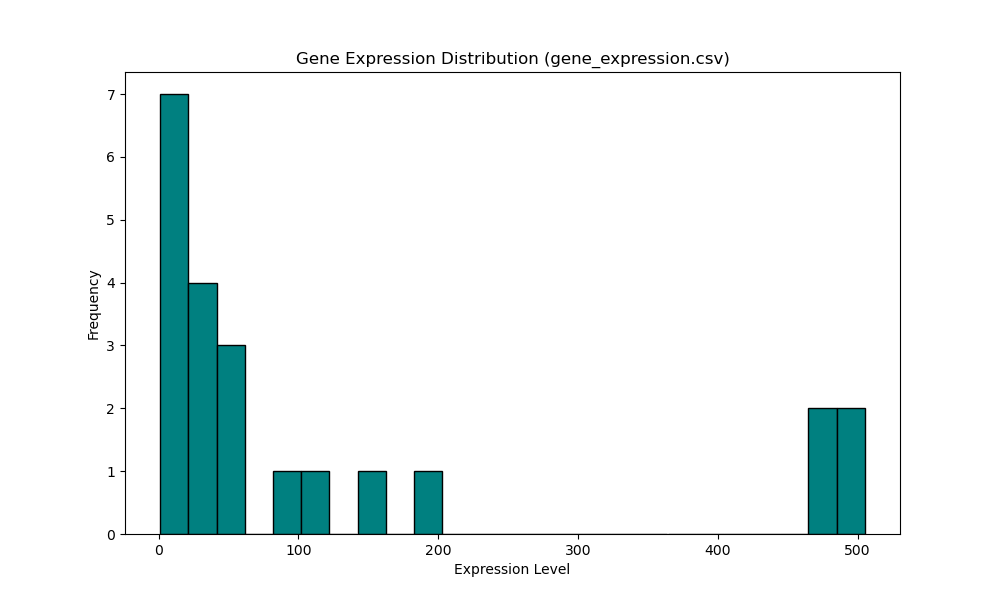
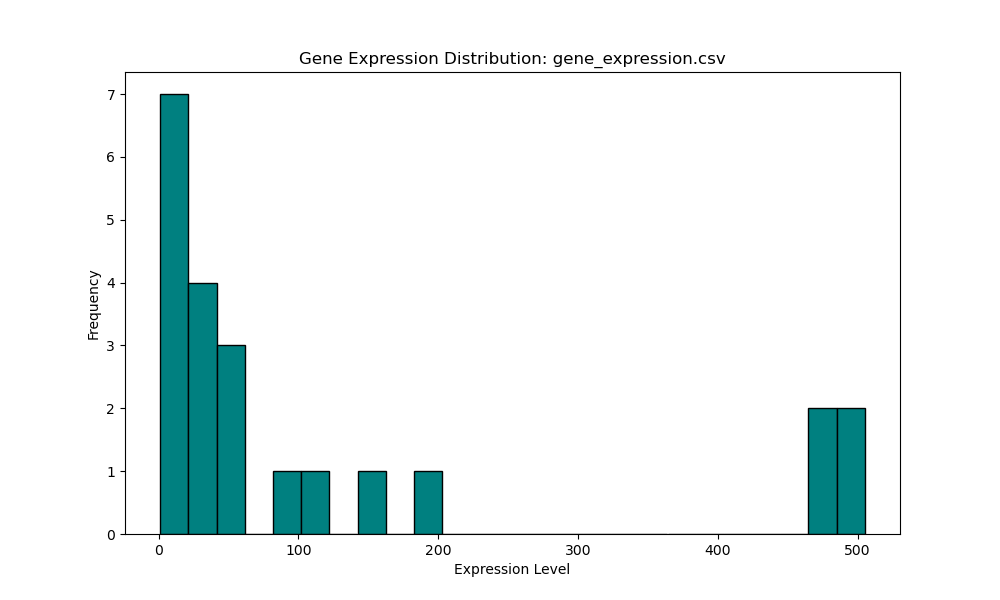
lab 4 extra task

Changed region(s): [[0.279, 0.09, 0.744, 0.12]]

diff --git a/Maja/software/lab4/lab4_1.py b/Maja/software/lab4/lab4_1.py
@@ -4,47 +4,45 @@ import argparse
 import os
 
 def main():
-    # 1. Hantera argument från kommandoraden
-    parser = argparse.ArgumentParser(description="Skapar ett histogram från genuttrycksdata.")
-    parser.add_argument("input_csv", help="Sökväg till indata-filen (CSV)")
-    parser.add_argument("output_png", help="Sökväg där bilden ska sparas (PNG)")
+    # Skapa argument-hanteraren
+    parser = argparse.ArgumentParser(description="Skapar ett histogram med keyword-argument (--flags).")
+
+    # Genom att lägga till '--' framför namnet blir argumentet ett keyword-argument.
+    # 'required=True' säkerställer att skriptet inte körs utan dessa.
+    parser.add_argument("--input_csv", help="Sökväg till indata-filen (CSV)", required=True)
+    parser.add_argument("--output_dir", help="Sökväg till resultatbilden (PNG)", required=True)
 
     args = parser.parse_args()
 
-    # Skapa utdatamappen om den saknas
-    output_dir = os.path.dirname(args.output_png)
-    if output_dir and not os.path.exists(output_dir):
-        os.makedirs(output_dir)
+    # Skapa mappen för utdata om den inte finns
+    output_folder = os.path.dirname(args.output_dir)
+    if output_folder and not os.path.exists(output_folder):
+        os.makedirs(output_folder)
 
     try:
-        # 2. Ladda datan med automatisk avkänning av separator (komma, semikolon, etc.)
-        # sep=None gör att pandas gissar separatorn själv
-        print(f"Analyserar och läser: {args.input_csv}")
+        # Läs in data (med automatisk detektering av separator för att klara icke-standard filer)
+        print(f"Läser in fil: {args.input_csv}")
         df = pd.read_csv(args.input_csv, sep=None, engine='python')
 
-        # 3. Definiera den kolumn vi letar efter
         target_column = 'expression_level'
 
         if target_column in df.columns:
-            # 4. Skapa histogrammet
             plt.figure(figsize=(10, 6))
             plt.hist(df[target_column], bins=25, color='teal', edgecolor='black')
             
-            plt.title(f'Gene Expression Distribution ({os.path.basename(args.input_csv)})')
+            plt.title(f'Gene Expression Distribution: {os.path.basename(args.input_csv)}')
             plt.xlabel('Expression Level')
             plt.ylabel('Frequency')
 
-            # 5. Spara bilden
-            plt.savefig(args.output_png)
+            # Spara till sökvägen angiven i --output_dir
+            plt.savefig(args.output_dir)
             plt.close()
-            print(f"✅ Klart! Sparade histogram till: {args.output_png}")
+            print(f"✅ Success! Bilden sparad som: {args.output_dir}")
         else:
-            print(f"❌ Fel: Kunde inte hitta kolumnen '{target_column}'.")
-            print(f"Tillgängliga kolumner i filen är: {list(df.columns)}")
+            print(f"❌ Fel: Kolumnen '{target_column}' saknas.")
 
     except Exception as e:
-        print(f"❌ Ett oväntat fel uppstod vid körning av {args.input_csv}:")
-        print(f"   {e}")
+        print(f"❌ Ett fel uppstod: {e}")
 
 if __name__ == "__main__":
     main()
